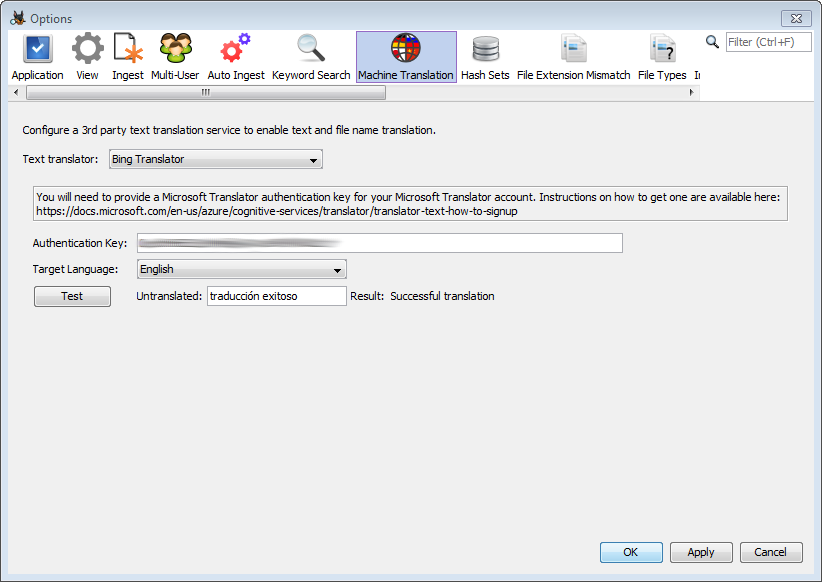
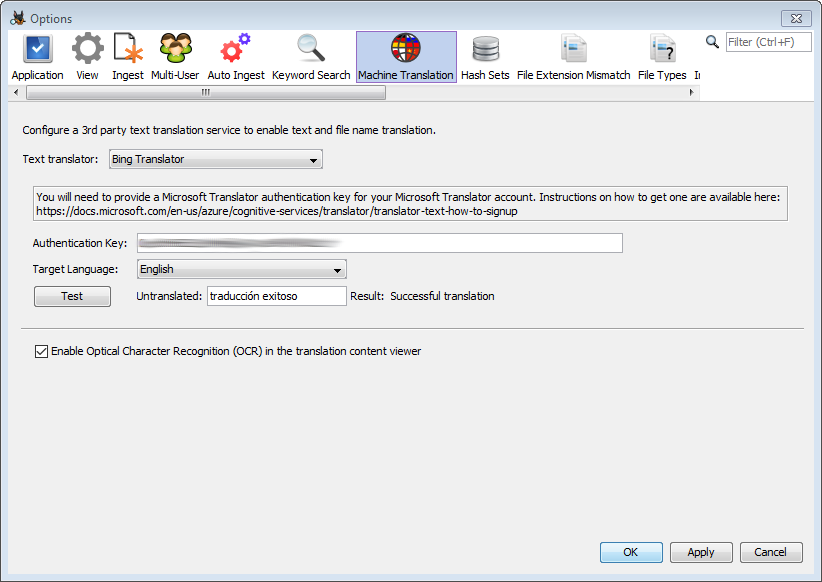
Enable OCR in translation tab

Changed region(s): [[0.0304, 0.5876, 0.517, 0.6186]]

diff --git a/Core/src/org/sleuthkit/autopsy/texttranslation/TranslationOptionsPanel.java b/Core/src/org/sleuthkit/autopsy/texttranslation/TranslationOptionsPanel.java
@@ -111,6 +111,7 @@ final class TranslationOptionsPanel extends javax.swing.JPanel {
         }
         translatorComboBox.setSelectedItem(currentSelection);
         loadSelectedPanelSettings();
+        enableOcrCheckBox.setSelected(UserPreferences.getUseOcrInTranslation());
     }
 
     /**
@@ -128,6 +129,8 @@ final class TranslationOptionsPanel extends javax.swing.JPanel {
                 logger.log(Level.WARNING, "Unable to save settings for TextTranslator named: " + currentSelection, ex);
             }
         }
+        // Save whether OCR is enabled in the content viewer
+        UserPreferences.setUseOcrInTranslation(enableOcrCheckBox.isSelected());
 
     }
 
@@ -144,6 +147,8 @@ final class TranslationOptionsPanel extends javax.swing.JPanel {
         translationServiceLabel = new javax.swing.JLabel();
         translationServicePanel = new javax.swing.JPanel();
         translationOptionsDescription = new javax.swing.JLabel();
+        jSeparator1 = new javax.swing.JSeparator();
+        enableOcrCheckBox = new javax.swing.JCheckBox();
 
         translatorComboBox.addActionListener(new java.awt.event.ActionListener() {
             public void actionPerformed(java.awt.event.ActionEvent evt) {
@@ -157,20 +162,31 @@ final class TranslationOptionsPanel extends javax.swing.JPanel {
 
         org.openide.awt.Mnemonics.setLocalizedText(translationOptionsDescription, org.openide.util.NbBundle.getMessage(TranslationOptionsPanel.class, "TranslationOptionsPanel.translationOptionsDescription.text")); // NOI18N
 
+        org.openide.awt.Mnemonics.setLocalizedText(enableOcrCheckBox, org.openide.util.NbBundle.getMessage(TranslationOptionsPanel.class, "TranslationOptionsPanel.enableOcrCheckBox.text")); // NOI18N
+        enableOcrCheckBox.addActionListener(new java.awt.event.ActionListener() {
+            public void actionPerformed(java.awt.event.ActionEvent evt) {
+                enableOcrCheckBoxActionPerformed(evt);
+            }
+        });
+
         javax.swing.GroupLayout layout = new javax.swing.GroupLayout(this);
         this.setLayout(layout);
         layout.setHorizontalGroup(
             layout.createParallelGroup(javax.swing.GroupLayout.Alignment.LEADING)
+            .addComponent(jSeparator1)
             .addGroup(layout.createSequentialGroup()
                 .addContainerGap()
                 .addGroup(layout.createParallelGroup(javax.swing.GroupLayout.Alignment.LEADING)
                     .addComponent(translationServicePanel, javax.swing.GroupLayout.DEFAULT_SIZE, javax.swing.GroupLayout.DEFAULT_SIZE, Short.MAX_VALUE)
+                    .addComponent(translationOptionsDescription, javax.swing.GroupLayout.DEFAULT_SIZE, 462, Short.MAX_VALUE)
                     .addGroup(layout.createSequentialGroup()
-                        .addComponent(translationServiceLabel)
-                        .addGap(10, 10, 10)
-                        .addComponent(translatorComboBox, javax.swing.GroupLayout.PREFERRED_SIZE, 214, javax.swing.GroupLayout.PREFERRED_SIZE)
-                        .addGap(0, 0, Short.MAX_VALUE))
-                    .addComponent(translationOptionsDescription, javax.swing.GroupLayout.PREFERRED_SIZE, 462, Short.MAX_VALUE))
+                        .addGroup(layout.createParallelGroup(javax.swing.GroupLayout.Alignment.LEADING)
+                            .addGroup(layout.createSequentialGroup()
+                                .addComponent(translationServiceLabel)
+                                .addGap(10, 10, 10)
+                                .addComponent(translatorComboBox, javax.swing.GroupLayout.PREFERRED_SIZE, 214, javax.swing.GroupLayout.PREFERRED_SIZE))
+                            .addComponent(enableOcrCheckBox))
+                        .addGap(0, 0, Short.MAX_VALUE)))
                 .addContainerGap())
         );
         layout.setVerticalGroup(
@@ -183,8 +199,12 @@ final class TranslationOptionsPanel extends javax.swing.JPanel {
                     .addComponent(translatorComboBox, javax.swing.GroupLayout.PREFERRED_SIZE, javax.swing.GroupLayout.DEFAULT_SIZE, javax.swing.GroupLayout.PREFERRED_SIZE)
                     .addComponent(translationServiceLabel))
                 .addPreferredGap(javax.swing.LayoutStyle.ComponentPlacement.RELATED)
-                .addComponent(translationServicePanel, javax.swing.GroupLayout.DEFAULT_SIZE, javax.swing.GroupLayout.DEFAULT_SIZE, Short.MAX_VALUE)
-                .addContainerGap())
+                .addComponent(translationServicePanel, javax.swing.GroupLayout.PREFERRED_SIZE, javax.swing.GroupLayout.DEFAULT_SIZE, javax.swing.GroupLayout.PREFERRED_SIZE)
+                .addPreferredGap(javax.swing.LayoutStyle.ComponentPlacement.UNRELATED)
+                .addComponent(jSeparator1, javax.swing.GroupLayout.PREFERRED_SIZE, 10, javax.swing.GroupLayout.PREFERRED_SIZE)
+                .addPreferredGap(javax.swing.LayoutStyle.ComponentPlacement.RELATED)
+                .addComponent(enableOcrCheckBox)
+                .addContainerGap(javax.swing.GroupLayout.DEFAULT_SIZE, Short.MAX_VALUE))
         );
     }// </editor-fold>//GEN-END:initComponents
 
@@ -192,8 +212,14 @@ final class TranslationOptionsPanel extends javax.swing.JPanel {
         updatePanel();
     }//GEN-LAST:event_translatorComboBoxActionPerformed
 
+    private void enableOcrCheckBoxActionPerformed(java.awt.event.ActionEvent evt) {//GEN-FIRST:event_enableOcrCheckBoxActionPerformed
+        controller.changed();
+    }//GEN-LAST:event_enableOcrCheckBoxActionPerformed
+
 
     // Variables declaration - do not modify//GEN-BEGIN:variables
+    private javax.swing.JCheckBox enableOcrCheckBox;
+    private javax.swing.JSeparator jSeparator1;
     private javax.swing.JLabel translationOptionsDescription;
     private javax.swing.JLabel translationServiceLabel;
     private javax.swing.JPanel translationServicePanel;

diff --git a/Core/src/org/sleuthkit/autopsy/texttranslation/ui/TranslatedTextViewer.java b/Core/src/org/sleuthkit/autopsy/texttranslation/ui/TranslatedTextViewer.java
@@ -48,6 +48,7 @@ import org.sleuthkit.datamodel.Content;
 import java.util.List;
 import java.util.logging.Level;
 import javax.swing.SwingUtilities;
+import org.sleuthkit.autopsy.core.UserPreferences;
 import org.sleuthkit.autopsy.coreutils.Logger;
 import org.sleuthkit.autopsy.coreutils.PlatformUtil;
 import org.sleuthkit.autopsy.texttranslation.ui.TranslationContentPanel.DisplayDropdownOptions;
@@ -201,10 +202,17 @@ public final class TranslatedTextViewer implements TextViewer {
          * @throws
          * org.sleuthkit.autopsy.textextractors.TextExtractor.InitReaderException
          */
+        @NbBundle.Messages({
+            "TranslatedContentViewer.ocrNotEnabled=OCR is not enabled. To change, go to Tools->Options->Machine Translation",
+        })
         private String getFileText(AbstractFile file) throws IOException, InterruptedException, TextExtractor.InitReaderException {
             final boolean isImage = file.getMIMEType().toLowerCase().startsWith("image/"); // NON-NLS
+            if (isImage && ! UserPreferences.getUseOcrInTranslation()) {
+                return Bundle.TranslatedContentViewer_ocrNotEnabled();
+            }
+            
             String result;
-            if (isImage) {
+            if (UserPreferences.getUseOcrInTranslation()) {
                 result = extractText(file, OCR_ENABLED);
             } else {
                 result = extractText(file, OCR_DISABLED);

diff --git a/Core/src/org/sleuthkit/autopsy/core/UserPreferences.java b/Core/src/org/sleuthkit/autopsy/core/UserPreferences.java
@@ -62,6 +62,7 @@ public final class UserPreferences {
     private static final String MESSAGE_SERVICE_HOST = "MessageServiceHost"; //NON-NLS
     private static final String MESSAGE_SERVICE_PORT = "MessageServicePort"; //NON-NLS
     public static final String TEXT_TRANSLATOR_NAME = "TextTranslatorName";
+    public static final String OCR_TRANSLATION_ENABLED = "OcrTranslationEnabled";
     public static final String PROCESS_TIME_OUT_ENABLED = "ProcessTimeOutEnabled"; //NON-NLS
     public static final String PROCESS_TIME_OUT_HOURS = "ProcessTimeOutHours"; //NON-NLS
     private static final int DEFAULT_PROCESS_TIMEOUT_HR = 60;
@@ -347,6 +348,14 @@ public final class UserPreferences {
     public static String getTextTranslatorName() {
         return preferences.get(TEXT_TRANSLATOR_NAME, null);
     }
+    
+    public static void setUseOcrInTranslation(boolean enableOcr) {
+        preferences.putBoolean(OCR_TRANSLATION_ENABLED, enableOcr);
+    }
+
+    public static boolean getUseOcrInTranslation() {
+        return preferences.getBoolean(OCR_TRANSLATION_ENABLED, true);
+    }    
 
     /**
      * Persists message service connection info.
